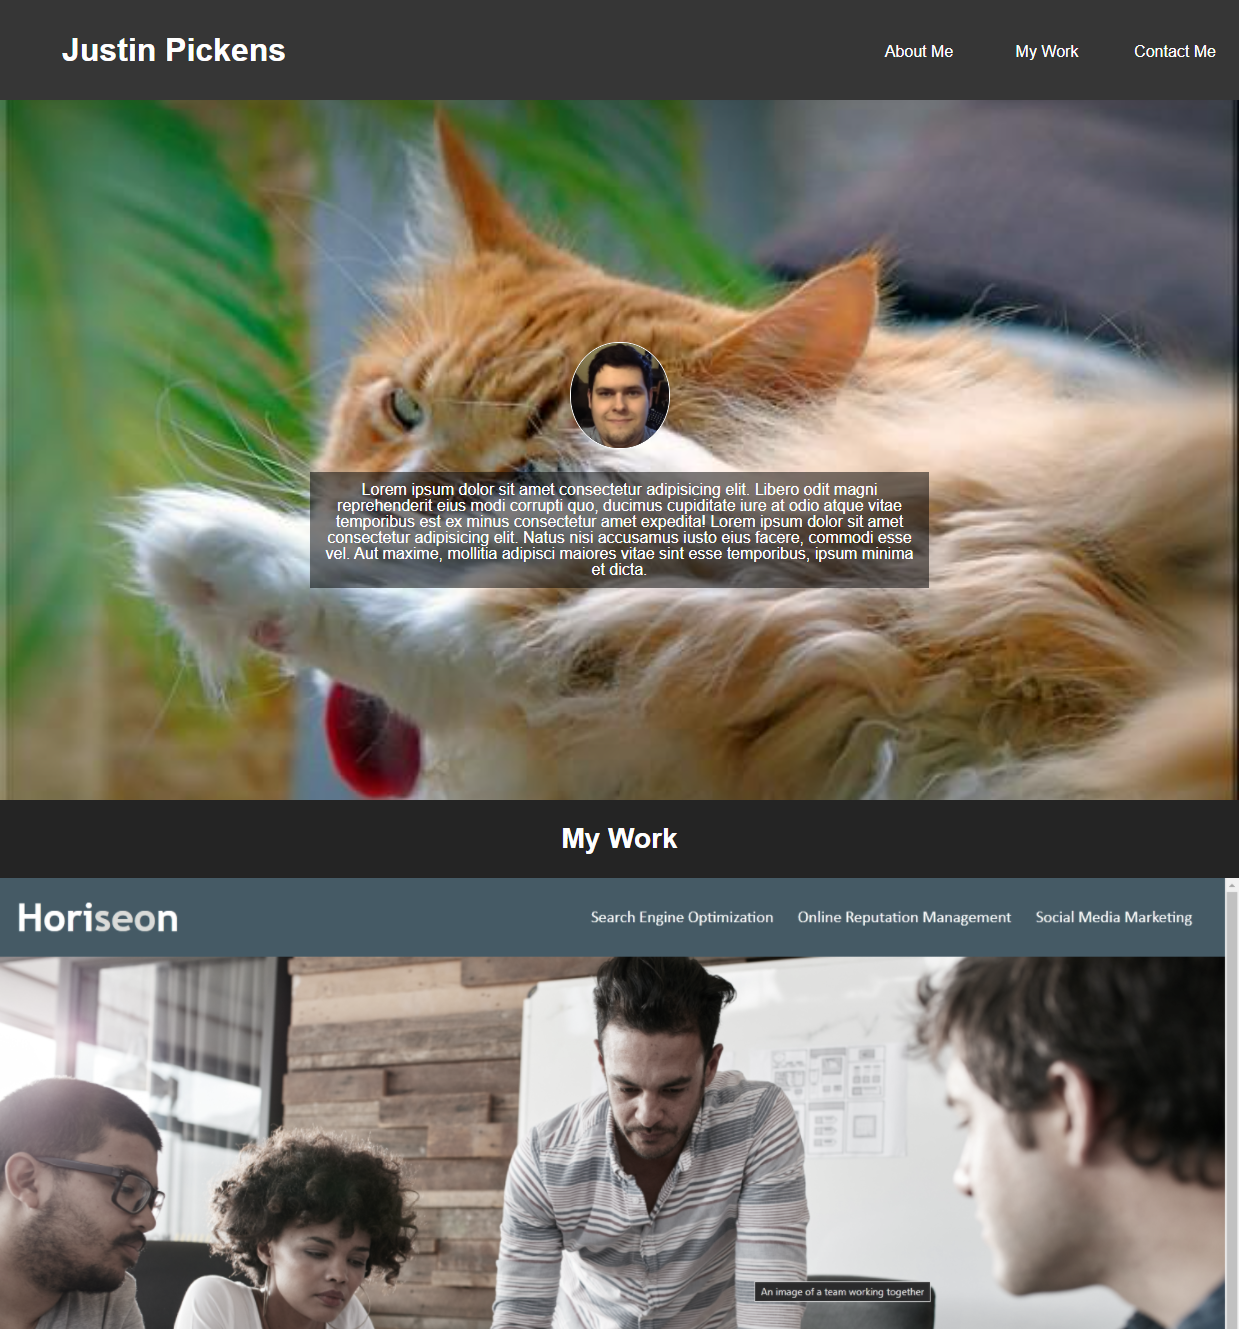
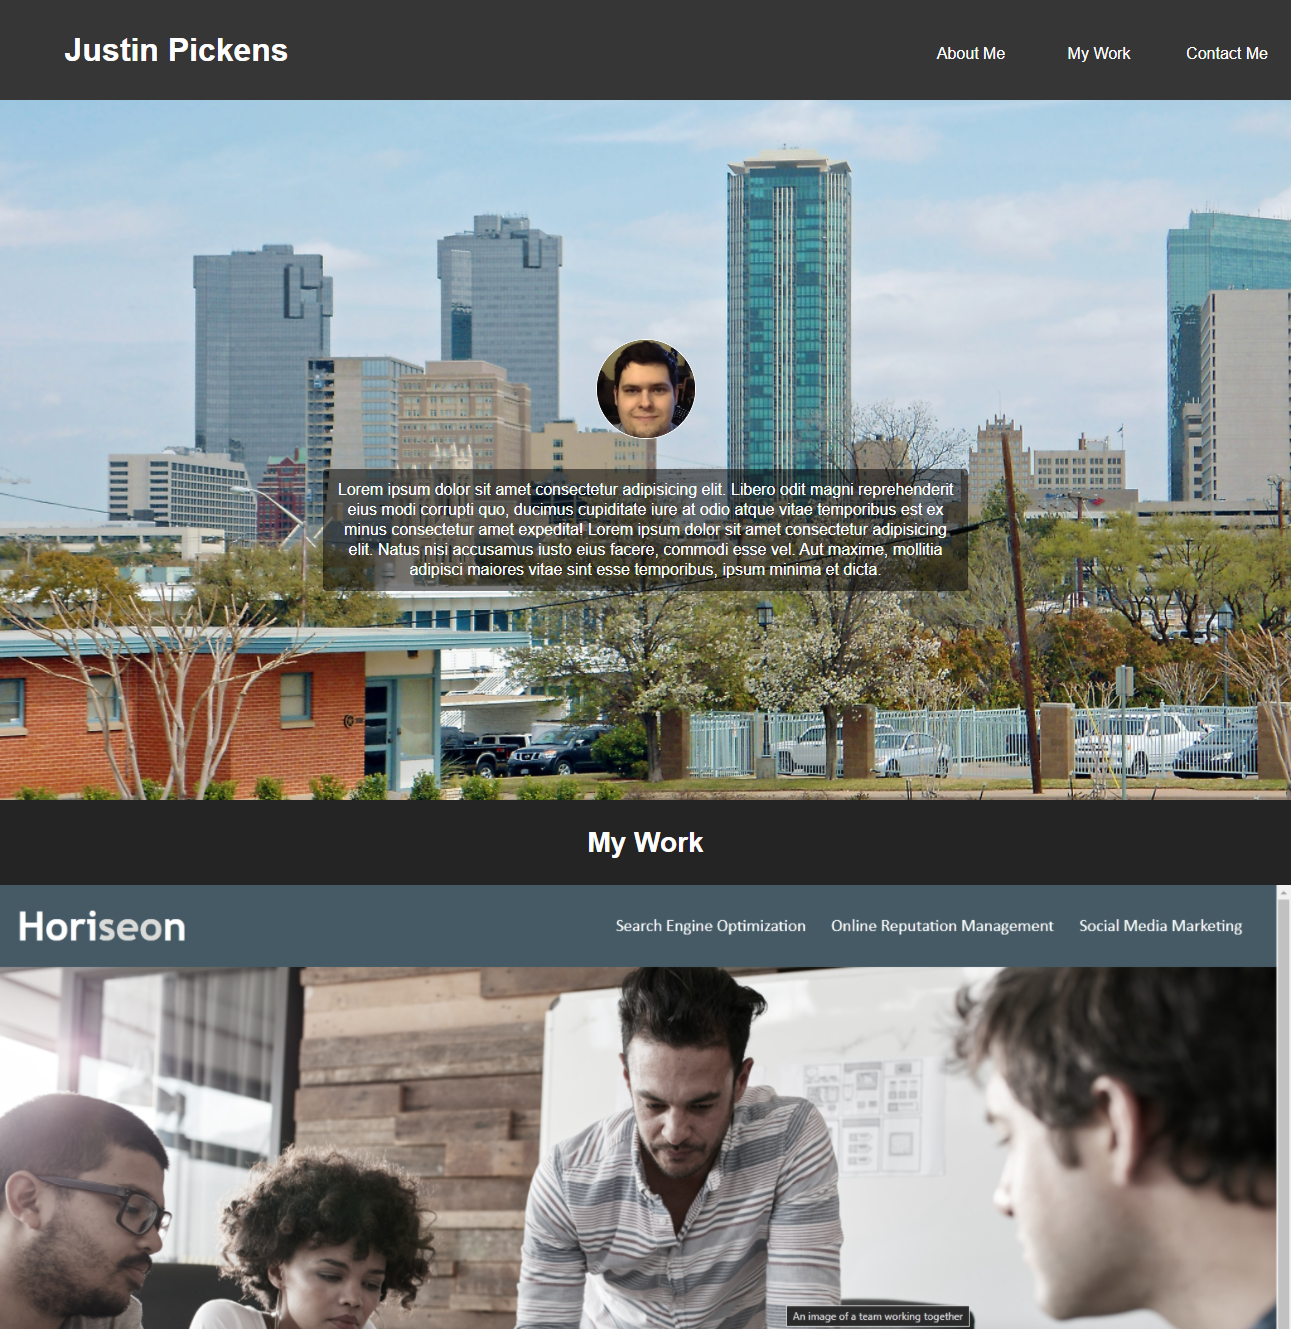
Swapped out placeholder images because the old ones kept randomly changing, updated README preview image

diff --git a/assets/css/style.css b/assets/css/style.css
@@ -97,7 +97,7 @@ nav a:hover {
     flex-direction: column;
     align-items: center;
     justify-content: center;
-    background-image: url("https://loremflickr.com/640/480/cat?lock=2");
+    background-image: url("../images/Hero.jpg");
     background-repeat: no-repeat;
     background-position: center;
     background-size: 100%;
@@ -126,6 +126,7 @@ nav a:hover {
 
 .heroBanner img {
     width: 100px;
+    height: 100px;
     object-fit: cover;
     object-position: 0 0;
     border: 1px solid #fff;
@@ -167,16 +168,17 @@ nav a:hover {
     height: 1000px;
 }
 
-.shiny img {
-    height: 1000px;
-}
-
 .card img {
     width: 100%;
     height: 600px;
     object-fit: cover;
-    object-position: 0 0;
+    object-position: left center;
     filter: grayscale(60%)
+}
+
+.shiny img {
+    height: 1000px;
+    object-position: 0 0;
 }
 
 .card:hover {

diff --git a/index.html b/index.html
@@ -45,15 +45,13 @@
             <div class="card">
                 <h3>Placeholder Project</h3>
                 <a href="#" target="_blank">
-                    <!-- Uses a placeholder image from https://loremflickr.com/ -->
-                    <img src="https://loremflickr.com/640/480/cat?lock=9" />
+                    <img src="./assets/images/placeholder1.jpg" />
                 </a>
             </div>
             <div class="card">
                 <h3>Placeholder Project</h3>
                 <a href="#" target="_blank">
-                    <!-- Uses a placeholder image from https://loremflickr.com/ -->
-                    <img src="https://loremflickr.com/640/480/cat?lock=10" />
+                    <img src="./assets/images/placeholder2.jpg" />
                 </a>
             </div>
         </section>
